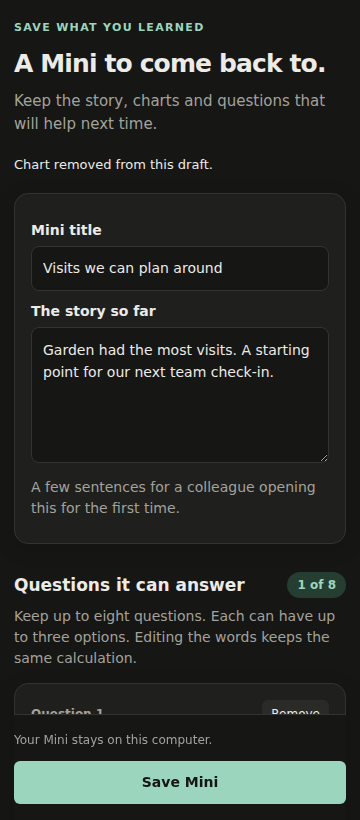
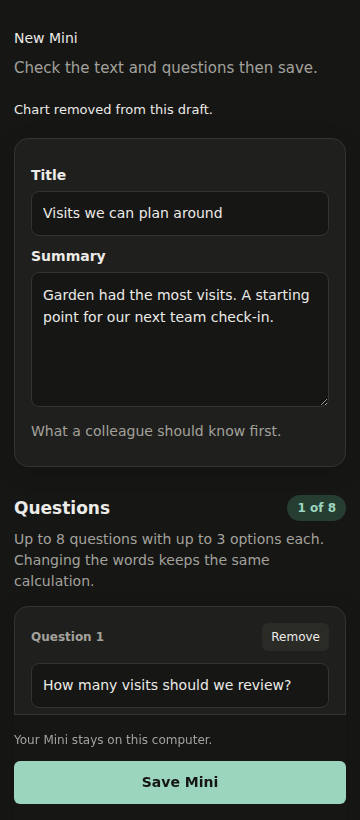
Drivey copy: plain labels (Privacy review, Example masked question:, New Mini), short replies without filler; Mini errors get their own message

diff --git a/benchmarks/runs/2026-11-06-oss-desktop-independent/cowork/lib/journey.js b/benchmarks/runs/2026-11-06-oss-desktop-independent/cowork/lib/journey.js
@@ -4,13 +4,13 @@ const postHeight=()=>parent.postMessage({type:'idli-height',px:Math.ceil(documen
 new ResizeObserver(postHeight).observe(document.body);
 const retry=fn=>{$('retry').hidden=false;$('retry').onclick=()=>{$('retry').hidden=true;fn();};};
 const reasonText=row=>{
-  if(!row.mask)return 'Visible to Claude. You can hide this column if it feels private.';
+  if(!row.mask)return 'Visible to Claude.';
   const col=row.column.toLowerCase();
-  if(/name|beneficiary|employee|head|owner|respondent|farmer|guardian|father|mother|spouse/.test(col))return 'Names may identify a person.';
-  if(/(^|_)(lat|lon|lng|latitude|longitude|gps)($|_)/.test(col))return 'Exact locations can point to a home.';
-  if(/ward|village|town|place|district|address/.test(col))return 'Locations may identify a person or community.';
-  if(/phone|mobile|email/.test(col))return 'Contact details are personal.';
-  return 'These values may be private. Codes keep the analysis useful.';
+  if(/name|beneficiary|employee|head|owner|respondent|farmer|guardian|father|mother|spouse/.test(col))return 'Names.';
+  if(/(^|_)(lat|lon|lng|latitude|longitude|gps)($|_)/.test(col))return 'Exact location.';
+  if(/ward|village|town|place|district|address/.test(col))return 'Place.';
+  if(/phone|mobile|email/.test(col))return 'Contact details.';
+  return 'May be private.';
 };
 if(location.pathname==='/privacy-review'){
   let data, busy=false;
@@ -28,21 +28,21 @@ if(location.pathname==='/privacy-review'){
     }).join('');
     $('question-card').hidden=false;$('masked').textContent=data.masked_question;
     $('done').disabled=data.done;$('done').textContent=data.done?'Done':'Done';
-    $('hint').textContent=data.done?'Privacy checked. Continue in your chat.':'Your choices apply to these files. Nothing has been sent to Claude.';
+    $('hint').textContent=data.done?'Privacy checked. Continue in your chat.':'Nothing is sent yet.';
     $('reviews').querySelectorAll('input').forEach(el=>el.onchange=async()=>{
       if(busy)return;busy=true;const col=el.dataset.col,local=data.files[Number(el.dataset.file)].local,columns={};
       data.reviews[Number(el.dataset.file)].tabs.forEach(tab=>Object.assign(columns,tab.columns));columns[col]=el.checked;
-      $('done').disabled=true;$('reviews').querySelectorAll('input').forEach(x=>x.disabled=true);status('Updating what Claude sees...');
-      try{render(await api('/api/review-change',{id:ID,file:local,columns}));status('Choice saved.');}
+      $('done').disabled=true;$('reviews').querySelectorAll('input').forEach(x=>x.disabled=true);status('Updating...');
+      try{render(await api('/api/review-change',{id:ID,file:local,columns}));status('Saved.');}
       catch(e){render(data);status(e.message,true);}
       finally{busy=false;$('done').disabled=!!data.done;}
     });
     postHeight();
   };
-  const load=async()=>{try{render(await api('/api/review?id='+encodeURIComponent(ID)));status('Your real samples stay on this computer.');}catch(e){status(e.message,true);retry(load);}};
+  const load=async()=>{try{render(await api('/api/review?id='+encodeURIComponent(ID)));status('Real values stay on this computer.');}catch(e){status(e.message,true);retry(load);}};
   $('done').onclick=async()=>{
     if(busy||data?.done)return;busy=true;$('done').disabled=true;status('Returning to your chat...');
-    try{await api('/api/review-done',{id:ID});data.done=true;render(data);status('Privacy checked. Your chat has the next step.');}
+    try{await api('/api/review-done',{id:ID});data.done=true;render(data);status('Privacy checked.');}
     catch(e){status(e.message,true);$('done').disabled=false;}finally{busy=false;}
   };load();
 }
@@ -65,7 +65,7 @@ if(location.pathname==='/mini-editor'){
   const save=async action=>{
     if(!$('editor').reportValidity())return;
     if(!questions.length){status('Keep at least one question before saving.',true);return;}
-    document.querySelectorAll('#editor button').forEach(b=>b.disabled=true);status('Checking the questions and saving your Mini...');
+    document.querySelectorAll('#editor button').forEach(b=>b.disabled=true);status('Checking and saving...');
     try{
       await api('/api/mini-save',{id:ID,action,name:$('name').value,goal:$('story').value,questions,charts:charts.map(c=>c.id)});
       $('editor').hidden=true;$('saved').hidden=false;status('Saved.');$('saved').setAttribute('tabindex','-1');$('saved').focus();
@@ -77,7 +77,7 @@ if(location.pathname==='/mini-editor'){
       $('name').value=draft.name;$('story').value=draft.goal;$('code').textContent=draft.code||'Saved with this Mini';
       $('sources').textContent=(draft.files||[]).map(f=>f.local).join('\n')||'No files recorded';
       if(draft.source_id){$('add').hidden=false;$('add').textContent='Add to '+draft.source_name;$('save').textContent='Save as a new Mini';}
-      $('editor').hidden=!!draft.saved_id;$('saved').hidden=!draft.saved_id;renderQuestions();renderCharts();status('Edit anything you would like to keep.');
+      $('editor').hidden=!!draft.saved_id;$('saved').hidden=!draft.saved_id;renderQuestions();renderCharts();status('');
     }catch(e){status(e.message,true);retry(load);}
   };
   $('editor').onsubmit=e=>{e.preventDefault();save('new');};$('add').onclick=()=>save('add');

diff --git a/benchmarks/runs/2026-11-06-oss-desktop-independent/cowork/lib/home-chart.js b/benchmarks/runs/2026-11-06-oss-desktop-independent/cowork/lib/home-chart.js
@@ -70,17 +70,17 @@ function provenance(datum) {
   const rows=keys.length?chartRows.filter(r=>keys.every(k=>equal(r[k],datum[k]))):[];
   const columns=[...new Set(rows.flatMap(r=>Object.keys(r)))];
   const files=(chartMeta.sources||[]).map(fileParts);
-  const from=files.length?files.map(f=>`<b>${esc(f.name)}</b>`+(f.folder?` <span class="dim">in ${esc(f.folder)}</span>`:'')).join(', '):'a file Idli did not record';
-  const made=chartMeta.script?`Worked out by Claude's script <b>${esc(scriptName(chartMeta.script))}</b>, run on this computer.`:'';
+  const from=files.length?files.map(f=>`<b>${esc(f.name)}</b>`+(f.folder?` <span class="dim">(${esc(f.folder)})</span>`:'')).join(', '):'a file Idli did not record';
+  const made=chartMeta.script?`Script: <b>${esc(scriptName(chartMeta.script))}</b>`:'';
   let detail;
   if(rows.length===1){
     detail=`<p class="lead">This part of the chart</p><dl>${columns.map(k=>`<dt>${esc(human(k))}</dt><dd>${esc(nice(rows[0][k]))}</dd>`).join('')}</dl>`;
   } else if(rows.length){
     const shown=rows.slice(0,10);
     detail=`<p class="lead">${rows.length} rows make up this part${rows.length>10?' (first 10 shown)':''}</p><div class="scroll"><table><thead><tr>${columns.map(k=>`<th>${esc(human(k))}</th>`).join('')}</tr></thead><tbody>${shown.map(r=>`<tr>${columns.map(k=>`<td>${esc(nice(r[k]))}</td>`).join('')}</tr>`).join('')}</tbody></table></div>`;
-  } else detail='<p class="dim">This part is a summary, so no single row sits behind it.</p>';
+  } else detail='<p class="dim">No single row: this part is a summary.</p>';
   const paths=[...(chartMeta.sources||[]),chartMeta.script,chartMeta.data_csv].filter(Boolean);
-  el.innerHTML=`<div class="what">Where did this come from?</div><p>From ${from}. Claude saw ${files.length>1?'these files':'this file'} with private values replaced by codes; you see the real values.</p>`+
+  el.innerHTML=`<div class="what">Where did this come from?</div><p>Source: ${from}. Claude saw ${files.length>1?'them':'it'} with codes.</p>`+
     (made?`<p>${made}</p>`:'')+detail+
     (paths.length?`<details><summary>File details</summary><pre>${esc(paths.join('\n'))}</pre></details>`:'');
 }
@@ -144,7 +144,7 @@ if(location.pathname==='/view') api('/api/view?id='+encodeURIComponent(ID)).then
   const pin=$('pin'),zoom=$('zoom');
   const pinLabel=()=>{pin.textContent=v.pinned?'Pinned':'Pin';pin.setAttribute('aria-pressed',String(!!v.pinned));};
   pin.disabled=false;zoom.disabled=false;pinLabel();
-  pin.onclick=async()=>{pin.disabled=true;try{const r=await api('/api/view/pin',{id:ID,pinned:!v.pinned});v.pinned=r.pinned;pinLabel();status(v.pinned?'Pinned. This chart will be included in your next Mini draft.':'Unpinned.');}catch(e){status(e.message,true);}finally{pin.disabled=false;}};
+  pin.onclick=async()=>{pin.disabled=true;try{const r=await api('/api/view/pin',{id:ID,pinned:!v.pinned});v.pinned=r.pinned;pinLabel();status(v.pinned?'Pinned. It goes in your next Mini.':'Unpinned.');}catch(e){status(e.message,true);}finally{pin.disabled=false;}};
   zoom.onclick=async()=>{bigger=!bigger;zoom.textContent=bigger?'Zoom: Bigger':'Zoom: Fit';zoom.setAttribute('aria-pressed',String(bigger));try{await draw(v.spec,v.data,v.agent,v.title,v);}catch(e){status('The chart could not draw. Choose Zoom to try again.',true);}};
   $('claude-back').onclick=async()=>{try{await api('/api/claude-back',{ws:WS});status('Claude is ready on the right.');}catch(e){status(e.message,true);}};
   if(EMBED)parent.postMessage({type:'idli-height',px:Number(new URLSearchParams(location.search).get('h'))||360},'*');

diff --git a/benchmarks/runs/2026-11-06-oss-desktop-independent/cowork/lib/mini-editor.html b/benchmarks/runs/2026-11-06-oss-desktop-independent/cowork/lib/mini-editor.html
@@ -2,12 +2,12 @@
 <html lang="en"><meta charset="utf-8"><meta name="viewport" content="width=device-width, initial-scale=1">
 <title>Your Mini - Idli</title>
 <link rel="stylesheet" href="/home.css?__TOKEN_QUERY__"><link rel="stylesheet" href="/journey.css?__TOKEN_QUERY__">
-<main class="journey editor-page"><header><p class="eyebrow">Save what you learned</p><h1>A Mini to come back to.</h1><p class="intro">Keep the story, charts and questions that will help next time.</p></header>
+<main class="journey editor-page"><header><p <h1>New Mini</h1><p class="intro">Check the text and questions then save.</p></header>
 <div id="status" role="status" aria-live="polite">Getting your draft ready...</div><button id="retry" hidden>Try again</button>
-<form id="editor" hidden><section class="card"><label for="name">Mini title</label><input id="name" maxlength="160" required><label for="story">The story so far</label><textarea id="story" maxlength="12000" rows="5" required></textarea><p class="muted">A few sentences for a colleague opening this for the first time.</p></section>
-<section><div class="section-heading"><h2>Questions it can answer</h2><span id="q-count" class="badge"></span></div><p class="muted">Keep up to eight questions. Each can have up to three options. Editing the words keeps the same calculation.</p><div id="questions"></div></section>
-<section><div class="section-heading"><h2>Pinned charts</h2><span id="chart-count" class="badge"></span></div><p class="muted">Only the charts you pinned in this workspace are included.</p><div id="charts"></div></section>
-<details class="card"><summary>Where the work lives</summary><p>Scripts</p><pre id="code"></pre><p>Source files</p><pre id="sources"></pre></details>
+<form id="editor" hidden><section class="card"><label for="name">Title</label><input id="name" maxlength="160" required><label for="story">Summary</label><textarea id="story" maxlength="12000" rows="5" required></textarea><p class="muted">What a colleague should know first.</p></section>
+<section><div class="section-heading"><h2>Questions</h2><span id="q-count" class="badge"></span></div><p class="muted">Up to 8 questions with up to 3 options each. Changing the words keeps the same calculation.</p><div id="questions"></div></section>
+<section><div class="section-heading"><h2>Pinned charts</h2><span id="chart-count" class="badge"></span></div><p class="muted">Charts you pinned.</p><div id="charts"></div></section>
+<details class="card"><summary>Files</summary><p>Scripts</p><pre id="code"></pre><p>Source files</p><pre id="sources"></pre></details>
 <footer class="action-bar editor-actions"><p id="save-hint">Your Mini stays on this computer.</p><div class="actions"><button type="button" id="add" hidden></button><button type="submit" id="save" class="primary">Save Mini</button></div></footer>
-</form><section id="saved" class="card success" hidden><span class="badge">Saved</span><h2>Your Mini is ready.</h2><p>Its cartridge is ready under a new Drivey chat. Open it any time to ask one of its saved questions.</p><button id="back-claude" class="primary">Back to Claude</button></section>
+</form><section id="saved" class="card success" hidden><span class="badge">Saved</span><h2>Mini saved</h2><p>It is listed under the Drivey chat box.</p><button id="back-claude" class="primary">Back to Claude</button></section>
 </main><script src="/home.js?__TOKEN_QUERY__"></script><script src="/journey.js?__TOKEN_QUERY__"></script></html>

diff --git a/benchmarks/runs/2026-11-06-oss-desktop-independent/cowork/lib/privacy-review.html b/benchmarks/runs/2026-11-06-oss-desktop-independent/cowork/lib/privacy-review.html
@@ -3,10 +3,10 @@
 <title>Privacy review - Idli</title>
 <link rel="stylesheet" href="/home.css?__TOKEN_QUERY__"><link rel="stylesheet" href="/journey.css?__TOKEN_QUERY__">
 <main class="journey review-page">
-<header><p class="eyebrow">Privacy</p><h1>What Claude will see</h1><p class="intro">Idli replaces private values with codes before anything reaches Claude. Check what is hidden, then press Done. Your files stay as they are.</p></header>
+<header><h1>Privacy review</h1><p class="intro">Hidden columns become codes before Claude sees them. Your files do not change.</p></header>
 <div id="status" role="status" aria-live="polite">Preparing your review...</div>
 <button id="retry" hidden>Try again</button>
 <div id="reviews" aria-busy="true"></div>
-<section id="question-card" class="card" hidden><h2>Your question, as Claude sees it</h2><p id="masked" class="question-preview"></p><p class="muted">Private values are replaced by codes. You will still see the real values in Claude's replies.</p></section>
-<footer class="action-bar"><p id="hint">Nothing has been sent to Claude yet.</p><button id="done" class="primary" disabled>Done</button></footer>
+<section id="question-card" class="card" hidden><h2>Example masked question:</h2><p id="masked" class="question-preview"></p><p class="muted">You see real values in Claude's replies.</p></section>
+<footer class="action-bar"><p id="hint">Nothing is sent yet.</p><button id="done" class="primary" disabled>Done</button></footer>
 </main><script src="/home.js?__TOKEN_QUERY__"></script><script src="/journey.js?__TOKEN_QUERY__"></script></html>

diff --git a/benchmarks/runs/2026-11-06-oss-desktop-independent/cowork/lib/view.html b/benchmarks/runs/2026-11-06-oss-desktop-independent/cowork/lib/view.html
@@ -1,9 +1,9 @@
 <!doctype html><html lang="en"><meta charset="utf-8"><meta name="viewport" content="width=device-width, initial-scale=1"><title>Chart - Idli</title>
 <script>if(new URLSearchParams(location.search).get('embed')==='1')document.documentElement.classList.add('embed');</script>
 <link rel="stylesheet" href="/home.css?__TOKEN_QUERY__"><link rel="stylesheet" href="/journey.css?__TOKEN_QUERY__">
-<main class="journey chart-page"><p class="eyebrow">A closer look</p><h1 id="title">Your chart</h1>
+<main class="journey chart-page"><h1 id="title">Your chart</h1>
 <div class="chart-toolbar" aria-label="Chart controls"><button id="pin" aria-pressed="false" disabled>Pin</button><button id="zoom" aria-pressed="false" disabled>Zoom: Fit</button><button id="claude-back">Back to Claude</button></div>
 <div id="status" role="status" aria-live="polite">Drawing your chart...</div><div id="viz" aria-label="Interactive chart"></div>
-<p class="chart-note">Click a part to explore its source. Right-click to bring it into your question for Claude. Pin a chart to keep it in your Mini.</p></main><div id="pop" hidden></div>
+<p class="chart-note">Click a part for its source. Right-click to copy it to Claude. Pin to add it to a Mini.</p></main><div id="pop" hidden></div>
 <script src="/vendor/vega.min.js"></script><script src="/vendor/vega-lite.min.js"></script><script src="/vendor/vega-embed.min.js"></script><script src="/vendor/vega-interpreter.min.js"></script>
 <script src="/home.js?__TOKEN_QUERY__"></script><script src="/home-chart.js?__TOKEN_QUERY__"></script></html>

diff --git a/benchmarks/runs/2026-11-06-oss-desktop-independent/cowork/lib/modes.py b/benchmarks/runs/2026-11-06-oss-desktop-independent/cowork/lib/modes.py
@@ -1013,7 +1013,7 @@ def privacy_nudge(j):
     return j
 
 
-DRIVEY_OPENING = "Ask about your Drive files. Type @ to pick a file or a folder, or start from a Mini."
+DRIVEY_OPENING = "Ask about your Drive files. Type @ to add a file or folder. Or open a Mini."
 
 
 def _drivey_question(msgs):
@@ -1033,7 +1033,7 @@ def _drivey_question(msgs):
 
 
 DRIVEY_TOOLS = frozenset(('drive_fetch', 'privacy_review_open', 'claude_handoff', 'mini_open', 'mini_ask'))
-PICK_FILES = 'Pick the files to use with @ (a file or a whole folder), then send your question again.'
+PICK_FILES = 'Add files or a folder with @ and send again.'
 
 
 def drivey_route(j):
@@ -1085,13 +1085,13 @@ def drivey_route(j):
     def handoff_card(res):
         masked = res.get('masked_question')
         if not isinstance(masked, str):
-            return say('I could not prepare the privacy preview. Pick your files with @ and try again.')
+            return say('Could not prepare the masked question. Add the files with @ again.')
         if res.get('mini_id'):
-            text = ("This Mini can't answer that, but Claude can work it out from the Mini's files, with private "
-                    'values replaced by codes. Claude will see:\n\n"' + masked + '"')
+            text = ("This Mini can't answer that. Claude can work on the Mini's files with private values as codes."
+                    '\n\nMasked question: "' + masked + '"')
         else:
-            text = ('Ready for Claude. It gets your question and these files, with private values replaced by codes. '
-                    'Claude will see:\n\n"' + masked + '"')
+            text = ('Claude gets your question and these files with private values as codes.'
+                    '\n\nMasked question: "' + masked + '"')
         return card('Claude', text, [('Switch to Claude', 'Send your question and open Claude on the right.'),
                                     ('Not yet', 'Keep working here. Nothing is sent.')])
     if not ev:
@@ -1102,8 +1102,10 @@ def drivey_route(j):
         if name == 'drive_fetch' and not res.get('files') and res.get('unsupported'):
             return say('These files need spreadsheet copies before Idli can hide private values: ' +
                        ', '.join(res['unsupported']) + '. Save Excel or CSV copies in Drive, then pick them with @.')
+        if res.get('error') and name in ('mini_open', 'mini_ask'):
+            return say('Could not open this Mini. Click its cartridge to try again.')
         if res.get('error') or (not res.get('files') and name in ('drive_fetch', 'privacy_review_open')):
-            return say('I could not prepare those files. Check your Drive access, then pick the files with @ and try again.')
+            return say('Could not open those files. Check you can open them in Drive and add them with @ again.')
         if name == 'drive_fetch':
             labels = ', '.join(f.get('title') or f.get('local', '') for f in res['files'])
             lead = 'Downloaded: ' + labels + '.'
@@ -1111,7 +1113,7 @@ def drivey_route(j):
                 lead += ' To use these too, save spreadsheet copies in Drive and pick them with @: ' + ', '.join(res['unsupported']) + '.'
             if res.get('errors'):
                 lead += ' Some files could not be downloaded. Pick them again to retry, or continue with these files.'
-            return card('Privacy', "Before Claude sees these files, do you want to check what will be hidden, or accept Idli's choices?",
+            return card('Privacy', "Review what Claude will see or accept Idli's choices?",
                         [('Check each file', 'See the columns and change what is hidden.'),
                          ("Accept Idli's choices", 'Use the suggested privacy settings.')], lead)
         if name == 'privacy_review_open':
@@ -1119,7 +1121,7 @@ def drivey_route(j):
                 return handoff_card(res)
             if not res.get('url'):
                 return say('I could not open the review. Choose Check each file to try again.')
-            return say('Check what Claude will see, then choose Done.\n\n[Privacy review](' + res['url'] + ')')
+            return say('Press Done when the review looks right.\n\n[Privacy review](' + res['url'] + ')')
         if name == 'claude_handoff':
             return say(res.get('reply') or 'Claude could not open yet. Send your question again to retry.')
         if name in ('mini_open', 'mini_ask'):
@@ -1133,9 +1135,9 @@ def drivey_route(j):
                 return call('claude_handoff', files=pending['files'], question=pending['question'],
                             **({'mini_id': pending['mini_id']} if pending.get('mini_id') else {}))
             if answer == 'Not yet':
-                return say('OK. Change your question or files and send it again.')
-            return say('OK. Send your question, or pick files with @ to start again.')
-        return say('Send a question or open a Mini to carry on.')
+                return say('OK. Change the question or files and send again.')
+            return say('OK. Nothing was sent.')
+        return say('Send a question or open a Mini.')
     said = last[1]
     if said == 'Privacy checked':
         return preview()

diff --git a/benchmarks/runs/2026-11-06-oss-desktop-independent/cowork/tests/test_journey.py b/benchmarks/runs/2026-11-06-oss-desktop-independent/cowork/tests/test_journey.py
@@ -82,7 +82,7 @@ class RouterTests(unittest.TestCase):
         t=Transcript();t.said('Compare @Drive/Reports/');self.assertEqual(t.tool()['input']['paths'],['Drive/Reports/'])
     def test_download_failure_and_partial(self):
         t=Transcript();t.said('@Drive/missing.xlsx');t.result({'files':[],'errors':[{'error':'internal detail'}]})
-        self.assertIn('try again',t.text());self.assertNotIn('internal detail',t.text())
+        self.assertIn('with @ again',t.text());self.assertNotIn('internal detail',t.text())
         t=Transcript();t.said('@Drive/visits.xlsx');t.result({'files':FILES,'errors':[{}]})
         self.assertIn('Some files',t.text())
     def test_unsupported_files_explain_how_to_continue(self):
@@ -103,9 +103,9 @@ class RouterTests(unittest.TestCase):
     def test_accept_not_yet(self):
         t=self.fetched();t.choose("Accept Idli's choices");self.assertTrue(t.tool()['input']['preview_only'])
         t.result({'files':FILES,'masked_question':'How many?', 'preview_only':True})
-        t.choose('Not yet');self.assertEqual(t.text(),'OK. Change your question or files and send it again.')
+        t.choose('Not yet');self.assertEqual(t.text(),'OK. Change the question or files and send again.')
     def test_dismiss_card(self):
-        t=self.fetched();t.result('dismissed');self.assertIn('pick files',t.text())
+        t=self.fetched();t.result('dismissed');self.assertIn('Nothing was sent',t.text())
     def test_privacy_failures(self):
         t=self.fetched();t.choose('Check each file');t.result({'error':'secret error code'})
         self.assertNotIn('secret',t.text())
@@ -285,7 +285,7 @@ class ToolTests(Fixture):
         t.said('Privacy checked');t.result(tools.t_privacy_review_open(**t.tool()['input']))
         question=t.tool()['input']['questions'][0]['question'];self.assertNotIn('Asha Sample',question);self.assertIn('NAME_',question)
         t.choose('Switch to Claude');t.result(tools.t_claude_handoff(**t.tool()['input']))
-        self.assertEqual(t.text(),'Claude has it on the right. Come back here to start something new or open a Mini.')
+        self.assertEqual(t.text(),'Sent to Claude on the right.')
         self.assertEqual([c for c in self.calls() if c[0]=='send'],[['send','--no-wait','left-one','Privacy checked']])
         self.assertEqual([c for c in self.calls() if c[:2]==['terminal','send-keys']][-1][-1],'\r')
     def test_mini_handoff_context_and_no_preview_send(self):

diff --git a/benchmarks/runs/2026-11-06-oss-desktop-independent/cowork/tests/check_journey_browser.py b/benchmarks/runs/2026-11-06-oss-desktop-independent/cowork/tests/check_journey_browser.py
@@ -62,7 +62,7 @@ class BrowserTests(Fixture):
             ward=p.get_by_role('switch',name='Hide Ward in Visits',exact=True)
             expect(name).to_be_checked();expect(ward).to_be_checked()
             self.assertNotIn('Asha Sample',p.locator('#masked').inner_text())
-            ward.uncheck();expect(p.locator('#status')).to_have_text('Choice saved.');expect(p.locator('#masked')).to_contain_text('Garden')
+            ward.uncheck();expect(p.locator('#status')).to_have_text('Saved.');expect(p.locator('#masked')).to_contain_text('Garden')
             self.check_layout(p);self.shot(p,f'privacy-review-{scheme}-360.png')
             p.locator('#question-card').scroll_into_view_if_needed();self.shot(p,f'privacy-question-{scheme}-360.png')
             p.get_by_role('button',name='Done',exact=True).click();expect(p.locator('#status')).to_contain_text('Privacy checked')
@@ -118,8 +118,8 @@ class BrowserTests(Fixture):
         self.make_view(pinned=True)
         for scheme in ['light','dark']:
             ident=self.make_draft();p=self.page(scheme);p.goto(self.url('mini-editor',id=ident))
-            expect(p.locator('#editor')).to_be_visible();p.get_by_label('Mini title',exact=True).fill('Visits we can plan around')
-            p.get_by_label('The story so far',exact=True).fill('Garden had the most visits. A starting point for our next team check-in.')
+            expect(p.locator('#editor')).to_be_visible();p.get_by_label('Title',exact=True).fill('Visits we can plan around')
+            p.get_by_label('Summary',exact=True).fill('Garden had the most visits. A starting point for our next team check-in.')
             p.get_by_label('Question 1',exact=True).fill('How many visits should we review?')
             p.get_by_role('button',name='Remove question 2',exact=True).click();expect(p.locator('#q-count')).to_have_text('1 of 8')
             p.get_by_role('button',name='Remove chart Visits by ward',exact=True).click();expect(p.locator('#chart-count')).to_have_text('0')

diff --git a/benchmarks/runs/2026-11-06-oss-desktop-independent/cowork/lib/home.py b/benchmarks/runs/2026-11-06-oss-desktop-independent/cowork/lib/home.py
@@ -523,9 +523,9 @@ def mini_open(data_dir, ident, workspace=None):
     for x in m.get('files', []):
         parts = str(x.get('local') or x.get('title') or '').replace('drive/', '', 1).split('/')
         name = x.get('title') or re.sub(r'\.(xlsx|xls|csv)$', '', parts[-1])
-        files.append('**' + name + '**' + (' in ' + ' / '.join(parts[:-1]) if len(parts) > 1 else ''))
+        files.append('**' + name + '**' + (' (' + ' / '.join(parts[:-1]) + ')' if len(parts) > 1 else ''))
     lines = ['## ' + m['name'], '', m['goal'], '',
-             '_Reads ' + ', '.join(files) + ' fresh from your Drive each time._' if files else '']
+             'Source: ' + ', '.join(files) if files else '']
     charts = m.get('charts', [])
     for chart in charts:
         lines += ['', '[' + plain(chart['title']) + '](' + journey.page_url(
@@ -542,7 +542,7 @@ def mini_open(data_dir, ident, workspace=None):
     for q in m['questions']:
         opts = [_option_words(k, d) for k, d in q.get('params', {}).items()]
         lines.append('- ' + q['question'] + (' _(' + '; '.join(opts) + ')_' if opts else ''))
-    lines += ['', 'Ask in your own words. Idli picks the matching question and the Mini works out the answer here.']
+    lines += ['', 'Ask in your own words.']
     return {'id': ident, 'files': m.get('files', []), 'questions': m['questions'], 'reply': plain('\n'.join(lines))}
 
 

diff --git a/benchmarks/runs/2026-11-06-oss-desktop-independent/cowork/lib/journey.py b/benchmarks/runs/2026-11-06-oss-desktop-independent/cowork/lib/journey.py
@@ -108,7 +108,7 @@ def handoff(data_dir, files, question, workspace, mini_id=None):
         state.setdefault('workspace_minis', {})[workspace] = mini_id
         state.setdefault('workspace_files', {})[workspace] = prepared['files']
     home.update_state(data_dir, change)
-    return {**result, 'reply': 'Claude has it on the right. Come back here to start something new or open a Mini.'}
+    return {**result, 'reply': 'Sent to Claude on the right.'}
 
 
 def pin(data_dir, ident, pinned):

diff --git a/narrative/DRIVEY_JOURNEY.md b/narrative/DRIVEY_JOURNEY.md
@@ -10,8 +10,10 @@ Two panes, always:
 - **Right:** the person's own **Claude Code CLI**, the same tool they learned in the Claude Code workspace. Its
   requests pass through Idli's masking proxy, so Claude sees codes for private values and the person sees real ones.
 
-Style for every word on screen: plain language, no jargon, no arrows (write "->" or "up"/"down"), no "·" (use ":"
-or " - "), short sentences, kind and direct. Never make the person feel they did something wrong.
+Style for every word on screen: plain labels and short sentences, no jargon, no poetic or flowery phrasing ("A little
+care, before sharing" -> "Privacy review"; "Your question, as Claude sees it" -> "Example masked question:"), avoid
+commas where a shorter sentence works, no arrows (write "->" or "up"/"down"), no "·" (use ":" or " - "). Never make
+the person feel they did something wrong.
 
 ## A. Making a Mini (no local model at all)
 
